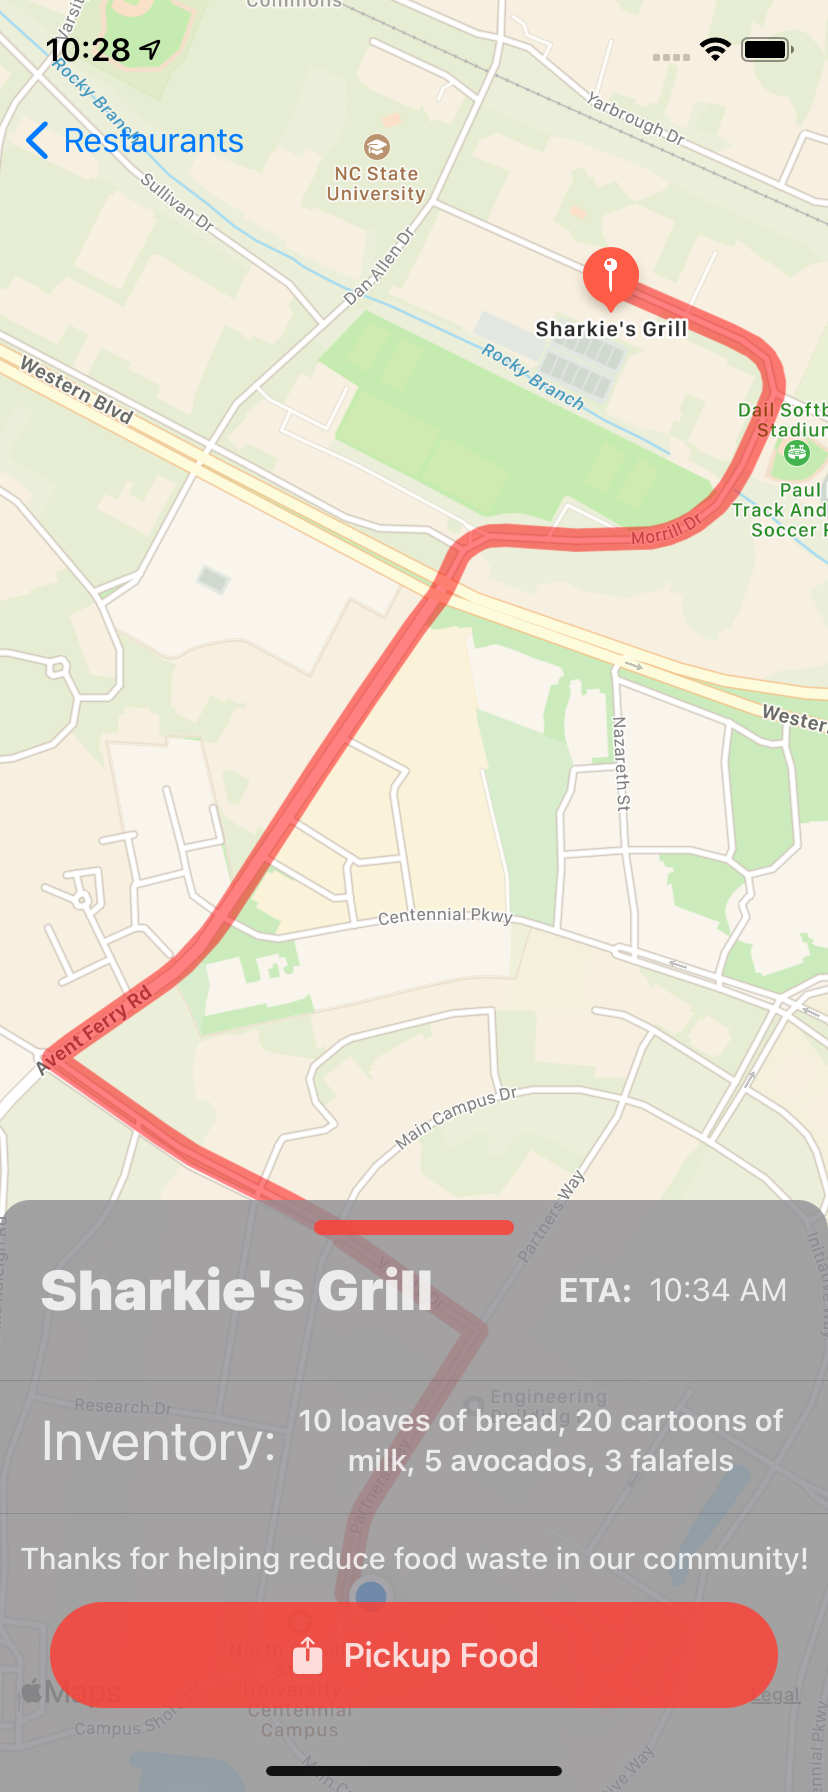
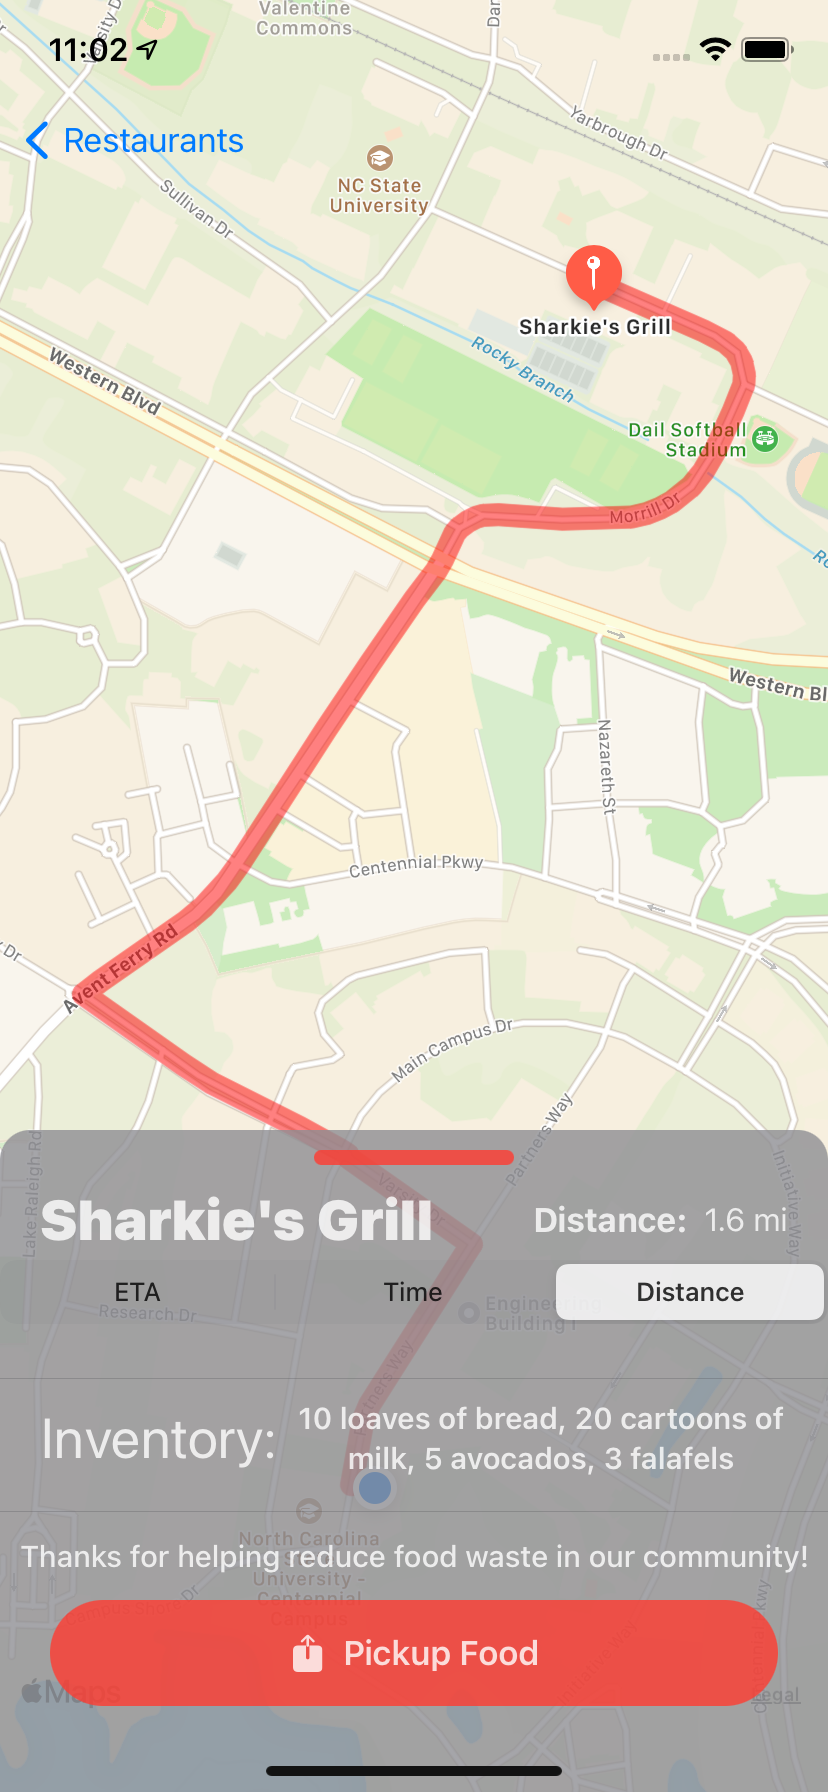
Changed Map View's visible region to accommodate increased panel size. Added call to dictionary's removeAll method in UserLocation's delegate methods to ensure changes in user location/location access make routes be recalculated or removed from app. Updated Github images to show Picker functionality

diff --git a/FoodPackiOS/Views/SingleRestaurantMapView.swift b/FoodPackiOS/Views/SingleRestaurantMapView.swift
@@ -50,7 +50,7 @@ struct SingleRestaurantMapView: UIViewRepresentable {
         if(restaurantRoute != nil){
             uiView.showsUserLocation = true;//precondition of route being calculated is userLocation being available
             uiView.addOverlay(restaurantRoute!.polyline)//TODO, overlay is not visible
-            uiView.setVisibleMapRect(MKMapRect(origin: restaurantRoute!.polyline.boundingMapRect.origin, size: MKMapSize(width: restaurantRoute!.polyline.boundingMapRect.width, height: restaurantRoute!.polyline.boundingMapRect.height * 1.1)), animated: true)
+            uiView.setVisibleMapRect(MKMapRect(origin: restaurantRoute!.polyline.boundingMapRect.origin, size: MKMapSize(width: restaurantRoute!.polyline.boundingMapRect.width, height: restaurantRoute!.polyline.boundingMapRect.height * 1.2)), animated: true)
         }
         else{
             uiView.showsUserLocation = false;
@@ -61,7 +61,7 @@ struct SingleRestaurantMapView: UIViewRepresentable {
     /**
      Internal function creates instance of Coordinator inner class. Used in MakeUIView method to set view's delegate to Coordinator
      */
-    internal func makeCoordinator() -> Coordinator {
+    func makeCoordinator() -> Coordinator {
         return Coordinator(self);
     }
     
@@ -69,7 +69,7 @@ struct SingleRestaurantMapView: UIViewRepresentable {
      Inner class allows various listener methods for events happening in the map view view.
      Used to provide renderer for drawing route lines.
      */
-    internal class Coordinator: NSObject, MKMapViewDelegate{
+    class Coordinator: NSObject, MKMapViewDelegate{
         
         /**
          Stores the parent view for use in methods.

diff --git a/FoodPackiOS/UserLocation.swift b/FoodPackiOS/UserLocation.swift
@@ -153,8 +153,8 @@ class UserLocation: NSObject, CLLocationManagerDelegate, ObservableObject{
             currentLocation = locationManager.location?.coordinate;
         }
         else{
-            //clear route dictionary
             currentLocation = nil;
+            routeDictionary.removeAll();//because location access is denied, previous routes are now invalid (if any)
         }
     }
     
@@ -164,7 +164,7 @@ class UserLocation: NSObject, CLLocationManagerDelegate, ObservableObject{
      */
     func locationManager(_ manager: CLLocationManager, didUpdateLocations locations: [CLLocation]) {
         currentLocation = locations.last?.coordinate;
-        //clear route dictionary, as previous routes are now outdated
+        routeDictionary.removeAll();//because location has changed, previous routes are now invalid
     }
     
 }

diff --git a/FoodPackiOS/Views/FullRestaurantInfoView.swift b/FoodPackiOS/Views/FullRestaurantInfoView.swift
@@ -67,7 +67,7 @@ struct FullRestaurantInfoView: View {
                         .fontWeight(.black)
                         .multilineTextAlignment(.center)
                         .padding(.leading, 20)
-                        //
+                        .lineLimit(1)
                     Spacer()
                     //TODO, allow options of ETA, distance, and time
                     Text(selectedRouteOption.rawValue + ":")
